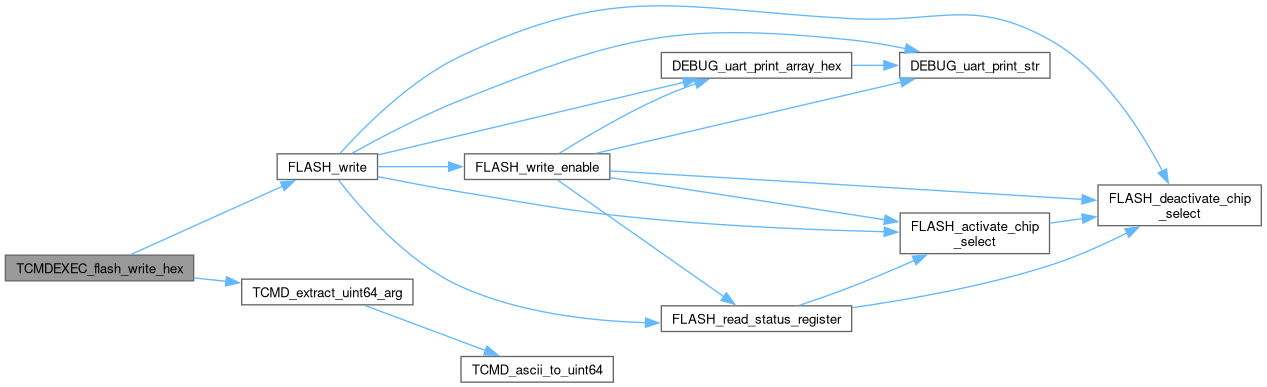
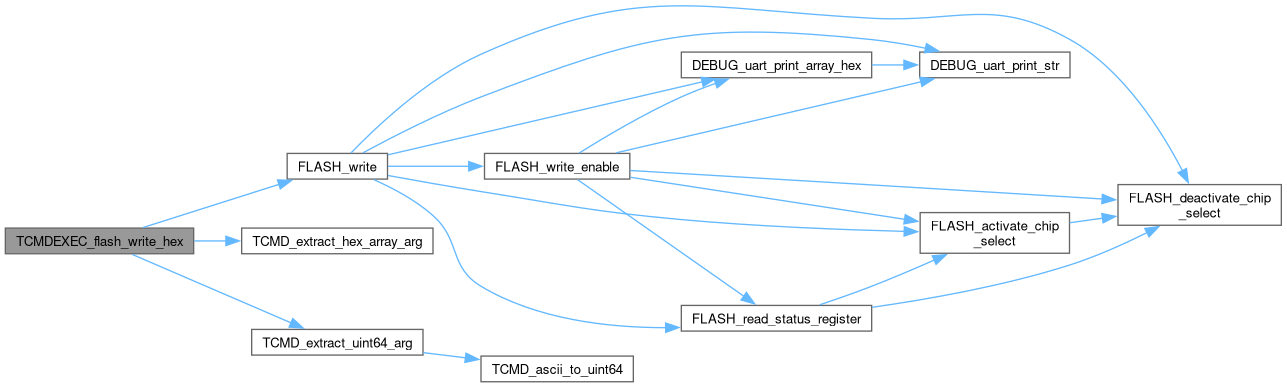
deploy: bd5ba44387774b4bcf0515f33cc101d4d5e2f277

diff --git a/flash__telecommand__defs_8c.html b/flash__telecommand__defs_8c.html
@@ -428,7 +428,7 @@ Here is the call graph for this function:</div>
   </table>
   </dd>
 </dl>
-<dl class="section return"><dt>Returns</dt><dd>0 on success, &gt;0 on error // TODO: explain better </dd></dl>
+<dl class="section return"><dt>Returns</dt><dd>0 on success, &gt;0 on error </dd></dl>
 <div class="dynheader">
 Here is the call graph for this function:</div>
 <div class="dyncontent">
@@ -499,11 +499,16 @@ Here is the call graph for this function:</div>
 <p>Telecommand: Read bytes as hex from a flash address. </p>
 <dl class="params"><dt>Parameters</dt><dd>
   <table class="params">
-    <tr><td class="paramname">args_str</td><td>Arg 0: Chip Number (CS number) as uint, Arg 1: Flash Address as uint, Arg 2: Number of bytes to read as uint </td></tr>
+    <tr><td class="paramname">args_str</td><td><ul>
+<li>Arg 0: Chip Number (CS number) as uint</li>
+<li>Arg 1: Flash Address as uint</li>
+<li>Arg 2: Number of bytes to read as uint </li>
+</ul>
+</td></tr>
   </table>
   </dd>
 </dl>
-<dl class="section return"><dt>Returns</dt><dd>0 on success, &gt;0 on error // TODO: explain better </dd></dl>
+<dl class="section return"><dt>Returns</dt><dd>0 on success, &gt;0 on error </dd></dl>
 <div class="dynheader">
 Here is the call graph for this function:</div>
 <div class="dyncontent">
@@ -558,44 +563,51 @@ Here is the call graph for this function:</div>
 <p>Telecommand: Read bytes as hex from a flash address. </p>
 <dl class="params"><dt>Parameters</dt><dd>
   <table class="params">
-    <tr><td class="paramname">args_str</td><td>Arg 0: Chip Number (CS number) as uint, Arg 1: Flash Address as uint, Arg 2: Hex string of bytes to write, with no delimiters, in all lowercase </td></tr>
+    <tr><td class="paramname">args_str</td><td><ul>
+<li>Arg 0: Chip Number (CS number) as uint</li>
+<li>Arg 1: Flash Address as uint</li>
+<li>Arg 2: Hex string of bytes to write (any case, allows space/underscore separators) </li>
+</ul>
+</td></tr>
   </table>
   </dd>
 </dl>
-<dl class="section return"><dt>Returns</dt><dd>0 on success, &gt;0 on error // TODO: explain better </dd></dl>
+<dl class="section return"><dt>Returns</dt><dd>0 on success, &gt;0 on error </dd></dl>
 <div class="dynheader">
 Here is the call graph for this function:</div>
 <div class="dyncontent">
 <div class="center"><img src="flash__telecommand__defs_8c_ad09f175c2e7126e812bfaeebcd17c172_cgraph.png" border="0" usemap="#aflash__telecommand__defs_8c_ad09f175c2e7126e812bfaeebcd17c172_cgraph" alt=""/></div>
 <map name="aflash__telecommand__defs_8c_ad09f175c2e7126e812bfaeebcd17c172_cgraph" id="aflash__telecommand__defs_8c_ad09f175c2e7126e812bfaeebcd17c172_cgraph">
-<area shape="rect" title="Telecommand: Read bytes as hex from a flash address." alt="" coords="5,255,194,281"/>
-<area shape="rect" href="flash__driver_8c.html#a60239a397fffe5773a2777533bfcbca2" title="Sends Page Program Command." alt="" coords="277,154,378,179"/>
-<area shape="poly" title=" " alt="" coords="130,252,282,184,284,189,132,257"/>
-<area shape="rect" href="telecommand__args__helpers_8c.html#aa11f06d167f7dbbd4360df4d179d0791" title="Extracts the nth comma&#45;separated argument from the input string, assuming it&#39;s a uint64." alt="" coords="242,279,413,305"/>
-<area shape="poly" title=" " alt="" coords="194,275,226,279,226,284,193,281"/>
-<area shape="rect" href="debug__uart_8c.html#a6899cfc3d3792f1457667bc3ae91160d" title=" " alt="" coords="661,52,852,78"/>
-<area shape="poly" title=" " alt="" coords="377,152,683,80,685,85,379,158"/>
-<area shape="rect" href="debug__uart_8c.html#a50bda81315799872455980023a8fbfe8" title=" " alt="" coords="900,52,1050,78"/>
-<area shape="poly" title=" " alt="" coords="351,151,400,125,460,98,566,58,652,36,740,30,852,37,906,46,905,51,851,43,740,35,652,42,567,63,462,102,403,130,353,156"/>
-<area shape="rect" href="flash__driver_8c.html#aaaeb3d0b88da2a9d8f8e4b25252f34fa" title="Activates the chip select for the given flash module number." alt="" coords="900,213,1050,254"/>
-<area shape="poly" title=" " alt="" coords="378,174,461,189,561,206,662,217,778,225,885,229,884,234,778,231,661,223,560,211,461,195,377,179"/>
-<area shape="rect" href="flash__driver_8c.html#acf8b378419ff3241ec1536d900ebcb72" title="Deactivates the chip select for all lines." alt="" coords="1098,185,1261,226"/>
-<area shape="poly" title=" " alt="" coords="338,151,388,103,422,76,460,54,515,30,563,15,608,6,650,3,739,7,852,16,909,15,955,12,999,16,1024,24,1051,38,1089,66,1121,100,1146,137,1165,170,1160,172,1142,140,1117,104,1085,70,1049,42,1022,29,998,22,955,18,909,21,852,21,739,13,650,9,608,12,565,20,517,35,462,58,425,80,391,107,342,155"/>
-<area shape="rect" href="flash__driver_8c.html#ad86ddde592dfea7dd3c6129ca311923a" title="Read Status Register and store the values in given buffer." alt="" coords="661,306,852,331"/>
-<area shape="poly" title=" " alt="" coords="341,178,389,232,423,261,462,284,507,300,554,311,646,320,646,325,553,316,505,306,460,289,420,265,385,236,337,182"/>
-<area shape="rect" href="flash__driver_8c.html#aedefd1fa550b34fc7c57465aa5c5874b" title="Sends Write Enable Command." alt="" coords="465,154,610,179"/>
-<area shape="poly" title=" " alt="" coords="378,164,449,164,449,169,378,169"/>
-<area shape="poly" title=" " alt="" coords="852,63,884,63,884,68,852,68"/>
-<area shape="poly" title=" " alt="" coords="1049,220,1082,216,1083,221,1050,226"/>
-<area shape="poly" title=" " alt="" coords="799,303,851,284,913,258,915,263,853,289,801,308"/>
-<area shape="poly" title=" " alt="" coords="852,305,948,289,1049,263,1126,231,1128,235,1051,268,949,294,853,310"/>
-<area shape="poly" title=" " alt="" coords="558,151,604,124,660,95,695,81,697,86,662,100,607,128,561,156"/>
-<area shape="poly" title=" " alt="" coords="596,151,900,80,902,85,597,156"/>
-<area shape="poly" title=" " alt="" coords="611,175,885,217,885,222,610,180"/>
-<area shape="poly" title=" " alt="" coords="610,168,852,183,1082,197,1082,202,852,188,610,174"/>
-<area shape="poly" title=" " alt="" coords="559,178,726,295,722,299,556,182"/>
-<area shape="rect" href="telecommand__args__helpers_8c.html#aeeb7af1211280043fdbd8392dbd3c283" title="Extracts the longest substring of integer characters, starting from the beginning of the string,..." alt="" coords="461,356,613,382"/>
-<area shape="poly" title=" " alt="" coords="366,303,487,348,485,353,364,308"/>
+<area shape="rect" title="Telecommand: Read bytes as hex from a flash address." alt="" coords="5,228,194,254"/>
+<area shape="rect" href="flash__driver_8c.html#a60239a397fffe5773a2777533bfcbca2" title="Sends Page Program Command." alt="" coords="287,153,388,179"/>
+<area shape="poly" title=" " alt="" coords="142,225,279,182,280,187,144,230"/>
+<area shape="rect" href="telecommand__args__helpers_8c.html#a3f4c71ad48b16b79e4bb91ffb13111d7" title="Extracts the nth comma&#45;separated argument from the input string, assuming it&#39;s a hex string." alt="" coords="242,228,433,254"/>
+<area shape="poly" title=" " alt="" coords="194,238,226,238,226,244,194,244"/>
+<area shape="rect" href="telecommand__args__helpers_8c.html#aa11f06d167f7dbbd4360df4d179d0791" title="Extracts the nth comma&#45;separated argument from the input string, assuming it&#39;s a uint64." alt="" coords="252,329,423,355"/>
+<area shape="poly" title=" " alt="" coords="133,252,292,321,290,325,131,257"/>
+<area shape="rect" href="debug__uart_8c.html#a6899cfc3d3792f1457667bc3ae91160d" title=" " alt="" coords="681,52,872,78"/>
+<area shape="poly" title=" " alt="" coords="387,152,702,79,703,84,388,157"/>
+<area shape="rect" href="debug__uart_8c.html#a50bda81315799872455980023a8fbfe8" title=" " alt="" coords="920,52,1070,78"/>
+<area shape="poly" title=" " alt="" coords="362,151,415,123,480,94,586,56,672,35,760,29,872,37,926,46,925,51,871,42,760,35,673,41,587,61,482,99,417,128,364,155"/>
+<area shape="rect" href="flash__driver_8c.html#aaaeb3d0b88da2a9d8f8e4b25252f34fa" title="Activates the chip select for the given flash module number." alt="" coords="920,213,1070,253"/>
+<area shape="poly" title=" " alt="" coords="388,173,481,189,581,205,682,217,798,225,905,229,904,234,798,230,681,222,581,210,481,194,388,178"/>
+<area shape="rect" href="flash__driver_8c.html#acf8b378419ff3241ec1536d900ebcb72" title="Deactivates the chip select for all lines." alt="" coords="1118,185,1281,225"/>
+<area shape="poly" title=" " alt="" coords="349,151,402,102,439,74,480,52,535,29,584,15,628,6,671,3,760,7,872,16,929,15,975,12,1019,16,1044,24,1071,37,1109,65,1141,100,1166,136,1185,169,1180,172,1162,139,1137,103,1105,69,1069,42,1042,29,1018,21,975,17,929,20,872,21,759,13,671,9,629,12,585,20,537,34,482,57,442,79,406,106,353,155"/>
+<area shape="rect" href="flash__driver_8c.html#ad86ddde592dfea7dd3c6129ca311923a" title="Read Status Register and store the values in given buffer." alt="" coords="681,305,872,331"/>
+<area shape="poly" title=" " alt="" coords="375,177,405,193,435,214,450,233,458,252,466,269,482,284,526,304,573,317,620,323,666,325,666,330,620,329,572,322,524,309,480,288,462,272,453,254,446,236,431,218,403,197,373,182"/>
+<area shape="rect" href="flash__driver_8c.html#aedefd1fa550b34fc7c57465aa5c5874b" title="Sends Write Enable Command." alt="" coords="485,153,630,179"/>
+<area shape="poly" title=" " alt="" coords="388,164,469,164,469,169,388,169"/>
+<area shape="poly" title=" " alt="" coords="872,62,904,62,904,68,872,68"/>
+<area shape="poly" title=" " alt="" coords="1069,220,1102,216,1103,221,1070,225"/>
+<area shape="poly" title=" " alt="" coords="819,302,871,284,933,258,935,262,873,289,821,307"/>
+<area shape="poly" title=" " alt="" coords="872,305,968,288,1069,262,1146,230,1148,235,1071,267,969,293,873,310"/>
+<area shape="poly" title=" " alt="" coords="578,151,624,123,680,94,715,81,717,86,682,99,627,128,581,155"/>
+<area shape="poly" title=" " alt="" coords="616,150,920,79,922,84,617,155"/>
+<area shape="poly" title=" " alt="" coords="631,175,905,217,905,222,630,180"/>
+<area shape="poly" title=" " alt="" coords="630,168,872,182,1102,196,1102,202,872,188,630,173"/>
+<area shape="poly" title=" " alt="" coords="579,178,746,294,742,299,576,182"/>
+<area shape="rect" href="telecommand__args__helpers_8c.html#aeeb7af1211280043fdbd8392dbd3c283" title="Extracts the longest substring of integer characters, starting from the beginning of the string,..." alt="" coords="481,356,633,382"/>
+<area shape="poly" title=" " alt="" coords="424,350,466,355,465,360,423,355"/>
 </map>
 </div>
 

diff --git a/flash__telecommand__defs_8h.html b/flash__telecommand__defs_8h.html
@@ -402,7 +402,7 @@ Here is the call graph for this function:</div>
   </table>
   </dd>
 </dl>
-<dl class="section return"><dt>Returns</dt><dd>0 on success, &gt;0 on error // TODO: explain better </dd></dl>
+<dl class="section return"><dt>Returns</dt><dd>0 on success, &gt;0 on error </dd></dl>
 <div class="dynheader">
 Here is the call graph for this function:</div>
 <div class="dyncontent">
@@ -473,11 +473,16 @@ Here is the call graph for this function:</div>
 <p>Telecommand: Read bytes as hex from a flash address. </p>
 <dl class="params"><dt>Parameters</dt><dd>
   <table class="params">
-    <tr><td class="paramname">args_str</td><td>Arg 0: Chip Number (CS number) as uint, Arg 1: Flash Address as uint, Arg 2: Number of bytes to read as uint </td></tr>
+    <tr><td class="paramname">args_str</td><td><ul>
+<li>Arg 0: Chip Number (CS number) as uint</li>
+<li>Arg 1: Flash Address as uint</li>
+<li>Arg 2: Number of bytes to read as uint </li>
+</ul>
+</td></tr>
   </table>
   </dd>
 </dl>
-<dl class="section return"><dt>Returns</dt><dd>0 on success, &gt;0 on error // TODO: explain better </dd></dl>
+<dl class="section return"><dt>Returns</dt><dd>0 on success, &gt;0 on error </dd></dl>
 <div class="dynheader">
 Here is the call graph for this function:</div>
 <div class="dyncontent">
@@ -532,44 +537,51 @@ Here is the call graph for this function:</div>
 <p>Telecommand: Read bytes as hex from a flash address. </p>
 <dl class="params"><dt>Parameters</dt><dd>
   <table class="params">
-    <tr><td class="paramname">args_str</td><td>Arg 0: Chip Number (CS number) as uint, Arg 1: Flash Address as uint, Arg 2: Hex string of bytes to write, with no delimiters, in all lowercase </td></tr>
+    <tr><td class="paramname">args_str</td><td><ul>
+<li>Arg 0: Chip Number (CS number) as uint</li>
+<li>Arg 1: Flash Address as uint</li>
+<li>Arg 2: Hex string of bytes to write (any case, allows space/underscore separators) </li>
+</ul>
+</td></tr>
   </table>
   </dd>
 </dl>
-<dl class="section return"><dt>Returns</dt><dd>0 on success, &gt;0 on error // TODO: explain better </dd></dl>
+<dl class="section return"><dt>Returns</dt><dd>0 on success, &gt;0 on error </dd></dl>
 <div class="dynheader">
 Here is the call graph for this function:</div>
 <div class="dyncontent">
 <div class="center"><img src="flash__telecommand__defs_8h_ad09f175c2e7126e812bfaeebcd17c172_cgraph.png" border="0" usemap="#aflash__telecommand__defs_8h_ad09f175c2e7126e812bfaeebcd17c172_cgraph" alt=""/></div>
 <map name="aflash__telecommand__defs_8h_ad09f175c2e7126e812bfaeebcd17c172_cgraph" id="aflash__telecommand__defs_8h_ad09f175c2e7126e812bfaeebcd17c172_cgraph">
-<area shape="rect" title="Telecommand: Read bytes as hex from a flash address." alt="" coords="5,255,194,281"/>
-<area shape="rect" href="flash__driver_8c.html#a60239a397fffe5773a2777533bfcbca2" title="Sends Page Program Command." alt="" coords="277,154,378,179"/>
-<area shape="poly" title=" " alt="" coords="130,252,282,184,284,189,132,257"/>
-<area shape="rect" href="telecommand__args__helpers_8c.html#aa11f06d167f7dbbd4360df4d179d0791" title="Extracts the nth comma&#45;separated argument from the input string, assuming it&#39;s a uint64." alt="" coords="242,279,413,305"/>
-<area shape="poly" title=" " alt="" coords="194,275,226,279,226,284,193,281"/>
-<area shape="rect" href="debug__uart_8c.html#a6899cfc3d3792f1457667bc3ae91160d" title=" " alt="" coords="661,52,852,78"/>
-<area shape="poly" title=" " alt="" coords="377,152,683,80,685,85,379,158"/>
-<area shape="rect" href="debug__uart_8c.html#a50bda81315799872455980023a8fbfe8" title=" " alt="" coords="900,52,1050,78"/>
-<area shape="poly" title=" " alt="" coords="351,151,400,125,460,98,566,58,652,36,740,30,852,37,906,46,905,51,851,43,740,35,652,42,567,63,462,102,403,130,353,156"/>
-<area shape="rect" href="flash__driver_8c.html#aaaeb3d0b88da2a9d8f8e4b25252f34fa" title="Activates the chip select for the given flash module number." alt="" coords="900,213,1050,254"/>
-<area shape="poly" title=" " alt="" coords="378,174,461,189,561,206,662,217,778,225,885,229,884,234,778,231,661,223,560,211,461,195,377,179"/>
-<area shape="rect" href="flash__driver_8c.html#acf8b378419ff3241ec1536d900ebcb72" title="Deactivates the chip select for all lines." alt="" coords="1098,185,1261,226"/>
-<area shape="poly" title=" " alt="" coords="338,151,388,103,422,76,460,54,515,30,563,15,608,6,650,3,739,7,852,16,909,15,955,12,999,16,1024,24,1051,38,1089,66,1121,100,1146,137,1165,170,1160,172,1142,140,1117,104,1085,70,1049,42,1022,29,998,22,955,18,909,21,852,21,739,13,650,9,608,12,565,20,517,35,462,58,425,80,391,107,342,155"/>
-<area shape="rect" href="flash__driver_8c.html#ad86ddde592dfea7dd3c6129ca311923a" title="Read Status Register and store the values in given buffer." alt="" coords="661,306,852,331"/>
-<area shape="poly" title=" " alt="" coords="341,178,389,232,423,261,462,284,507,300,554,311,646,320,646,325,553,316,505,306,460,289,420,265,385,236,337,182"/>
-<area shape="rect" href="flash__driver_8c.html#aedefd1fa550b34fc7c57465aa5c5874b" title="Sends Write Enable Command." alt="" coords="465,154,610,179"/>
-<area shape="poly" title=" " alt="" coords="378,164,449,164,449,169,378,169"/>
-<area shape="poly" title=" " alt="" coords="852,63,884,63,884,68,852,68"/>
-<area shape="poly" title=" " alt="" coords="1049,220,1082,216,1083,221,1050,226"/>
-<area shape="poly" title=" " alt="" coords="799,303,851,284,913,258,915,263,853,289,801,308"/>
-<area shape="poly" title=" " alt="" coords="852,305,948,289,1049,263,1126,231,1128,235,1051,268,949,294,853,310"/>
-<area shape="poly" title=" " alt="" coords="558,151,604,124,660,95,695,81,697,86,662,100,607,128,561,156"/>
-<area shape="poly" title=" " alt="" coords="596,151,900,80,902,85,597,156"/>
-<area shape="poly" title=" " alt="" coords="611,175,885,217,885,222,610,180"/>
-<area shape="poly" title=" " alt="" coords="610,168,852,183,1082,197,1082,202,852,188,610,174"/>
-<area shape="poly" title=" " alt="" coords="559,178,726,295,722,299,556,182"/>
-<area shape="rect" href="telecommand__args__helpers_8c.html#aeeb7af1211280043fdbd8392dbd3c283" title="Extracts the longest substring of integer characters, starting from the beginning of the string,..." alt="" coords="461,356,613,382"/>
-<area shape="poly" title=" " alt="" coords="366,303,487,348,485,353,364,308"/>
+<area shape="rect" title="Telecommand: Read bytes as hex from a flash address." alt="" coords="5,228,194,254"/>
+<area shape="rect" href="flash__driver_8c.html#a60239a397fffe5773a2777533bfcbca2" title="Sends Page Program Command." alt="" coords="287,153,388,179"/>
+<area shape="poly" title=" " alt="" coords="142,225,279,182,280,187,144,230"/>
+<area shape="rect" href="telecommand__args__helpers_8c.html#a3f4c71ad48b16b79e4bb91ffb13111d7" title="Extracts the nth comma&#45;separated argument from the input string, assuming it&#39;s a hex string." alt="" coords="242,228,433,254"/>
+<area shape="poly" title=" " alt="" coords="194,238,226,238,226,244,194,244"/>
+<area shape="rect" href="telecommand__args__helpers_8c.html#aa11f06d167f7dbbd4360df4d179d0791" title="Extracts the nth comma&#45;separated argument from the input string, assuming it&#39;s a uint64." alt="" coords="252,329,423,355"/>
+<area shape="poly" title=" " alt="" coords="133,252,292,321,290,325,131,257"/>
+<area shape="rect" href="debug__uart_8c.html#a6899cfc3d3792f1457667bc3ae91160d" title=" " alt="" coords="681,52,872,78"/>
+<area shape="poly" title=" " alt="" coords="387,152,702,79,703,84,388,157"/>
+<area shape="rect" href="debug__uart_8c.html#a50bda81315799872455980023a8fbfe8" title=" " alt="" coords="920,52,1070,78"/>
+<area shape="poly" title=" " alt="" coords="362,151,415,123,480,94,586,56,672,35,760,29,872,37,926,46,925,51,871,42,760,35,673,41,587,61,482,99,417,128,364,155"/>
+<area shape="rect" href="flash__driver_8c.html#aaaeb3d0b88da2a9d8f8e4b25252f34fa" title="Activates the chip select for the given flash module number." alt="" coords="920,213,1070,253"/>
+<area shape="poly" title=" " alt="" coords="388,173,481,189,581,205,682,217,798,225,905,229,904,234,798,230,681,222,581,210,481,194,388,178"/>
+<area shape="rect" href="flash__driver_8c.html#acf8b378419ff3241ec1536d900ebcb72" title="Deactivates the chip select for all lines." alt="" coords="1118,185,1281,225"/>
+<area shape="poly" title=" " alt="" coords="349,151,402,102,439,74,480,52,535,29,584,15,628,6,671,3,760,7,872,16,929,15,975,12,1019,16,1044,24,1071,37,1109,65,1141,100,1166,136,1185,169,1180,172,1162,139,1137,103,1105,69,1069,42,1042,29,1018,21,975,17,929,20,872,21,759,13,671,9,629,12,585,20,537,34,482,57,442,79,406,106,353,155"/>
+<area shape="rect" href="flash__driver_8c.html#ad86ddde592dfea7dd3c6129ca311923a" title="Read Status Register and store the values in given buffer." alt="" coords="681,305,872,331"/>
+<area shape="poly" title=" " alt="" coords="375,177,405,193,435,214,450,233,458,252,466,269,482,284,526,304,573,317,620,323,666,325,666,330,620,329,572,322,524,309,480,288,462,272,453,254,446,236,431,218,403,197,373,182"/>
+<area shape="rect" href="flash__driver_8c.html#aedefd1fa550b34fc7c57465aa5c5874b" title="Sends Write Enable Command." alt="" coords="485,153,630,179"/>
+<area shape="poly" title=" " alt="" coords="388,164,469,164,469,169,388,169"/>
+<area shape="poly" title=" " alt="" coords="872,62,904,62,904,68,872,68"/>
+<area shape="poly" title=" " alt="" coords="1069,220,1102,216,1103,221,1070,225"/>
+<area shape="poly" title=" " alt="" coords="819,302,871,284,933,258,935,262,873,289,821,307"/>
+<area shape="poly" title=" " alt="" coords="872,305,968,288,1069,262,1146,230,1148,235,1071,267,969,293,873,310"/>
+<area shape="poly" title=" " alt="" coords="578,151,624,123,680,94,715,81,717,86,682,99,627,128,581,155"/>
+<area shape="poly" title=" " alt="" coords="616,150,920,79,922,84,617,155"/>
+<area shape="poly" title=" " alt="" coords="631,175,905,217,905,222,630,180"/>
+<area shape="poly" title=" " alt="" coords="630,168,872,182,1102,196,1102,202,872,188,630,173"/>
+<area shape="poly" title=" " alt="" coords="579,178,746,294,742,299,576,182"/>
+<area shape="rect" href="telecommand__args__helpers_8c.html#aeeb7af1211280043fdbd8392dbd3c283" title="Extracts the longest substring of integer characters, starting from the beginning of the string,..." alt="" coords="481,356,633,382"/>
+<area shape="poly" title=" " alt="" coords="424,350,466,355,465,360,423,355"/>
 </map>
 </div>
 

diff --git a/flash__telecommand__defs_8h_source.html b/flash__telecommand__defs_8h_source.html
@@ -118,11 +118,11 @@ $(function(){ initResizable(false); });
 <div class="line"><a id="l00025" name="l00025"></a><span class="lineno">   25</span>                        </div>
 <div class="line"><a id="l00026" name="l00026"></a><span class="lineno">   26</span><span class="preprocessor">#endif </span><span class="comment">/* __INCLUDE_GUARD__FLASH_TELECOMMAND_DEFS_H__ */</span><span class="preprocessor"></span></div>
 <div class="ttc" id="aflash__telecommand__defs_8h_html_a447d306bb6ec33d39ac84323de6aa88a"><div class="ttname"><a href="flash__telecommand__defs_8h.html#a447d306bb6ec33d39ac84323de6aa88a">TCMDEXEC_flash_each_is_reachable</a></div><div class="ttdeci">uint8_t TCMDEXEC_flash_each_is_reachable(const char *args_str, TCMD_TelecommandChannel_enum_t tcmd_channel, char *response_output_buf, uint16_t response_output_buf_len)</div><div class="ttdoc">Telecommand: Read bytes as hex from a flash address.</div><div class="ttdef"><b>Definition</b> flash_telecommand_defs.c:42</div></div>
-<div class="ttc" id="aflash__telecommand__defs_8h_html_aaad387e58757cce93fe46c8eb25cc822"><div class="ttname"><a href="flash__telecommand__defs_8h.html#aaad387e58757cce93fe46c8eb25cc822">TCMDEXEC_flash_read_hex</a></div><div class="ttdeci">uint8_t TCMDEXEC_flash_read_hex(const char *args_str, TCMD_TelecommandChannel_enum_t tcmd_channel, char *response_output_buf, uint16_t response_output_buf_len)</div><div class="ttdoc">Telecommand: Read bytes as hex from a flash address.</div><div class="ttdef"><b>Definition</b> flash_telecommand_defs.c:93</div></div>
+<div class="ttc" id="aflash__telecommand__defs_8h_html_aaad387e58757cce93fe46c8eb25cc822"><div class="ttname"><a href="flash__telecommand__defs_8h.html#aaad387e58757cce93fe46c8eb25cc822">TCMDEXEC_flash_read_hex</a></div><div class="ttdeci">uint8_t TCMDEXEC_flash_read_hex(const char *args_str, TCMD_TelecommandChannel_enum_t tcmd_channel, char *response_output_buf, uint16_t response_output_buf_len)</div><div class="ttdoc">Telecommand: Read bytes as hex from a flash address.</div><div class="ttdef"><b>Definition</b> flash_telecommand_defs.c:95</div></div>
 <div class="ttc" id="aflash__telecommand__defs_8h_html_abe48337a0d7cf85f21941a23ad028493"><div class="ttname"><a href="flash__telecommand__defs_8h.html#abe48337a0d7cf85f21941a23ad028493">TCMDEXEC_flash_activate_each_cs</a></div><div class="ttdeci">uint8_t TCMDEXEC_flash_activate_each_cs(const char *args_str, TCMD_TelecommandChannel_enum_t tcmd_channel, char *response_output_buf, uint16_t response_output_buf_len)</div><div class="ttdoc">Telecommand: Read bytes as hex from a flash address.</div><div class="ttdef"><b>Definition</b> flash_telecommand_defs.c:16</div></div>
-<div class="ttc" id="aflash__telecommand__defs_8h_html_abf1a62ec4474e4584deb50c95c7800c4"><div class="ttname"><a href="flash__telecommand__defs_8h.html#abf1a62ec4474e4584deb50c95c7800c4">TCMDEXEC_flash_erase</a></div><div class="ttdeci">uint8_t TCMDEXEC_flash_erase(const char *args_str, TCMD_TelecommandChannel_enum_t tcmd_channel, char *response_output_buf, uint16_t response_output_buf_len)</div><div class="ttdoc">Telecommand: Erase a sector of flash memory.</div><div class="ttdef"><b>Definition</b> flash_telecommand_defs.c:235</div></div>
-<div class="ttc" id="aflash__telecommand__defs_8h_html_ad09f175c2e7126e812bfaeebcd17c172"><div class="ttname"><a href="flash__telecommand__defs_8h.html#ad09f175c2e7126e812bfaeebcd17c172">TCMDEXEC_flash_write_hex</a></div><div class="ttdeci">uint8_t TCMDEXEC_flash_write_hex(const char *args_str, TCMD_TelecommandChannel_enum_t tcmd_channel, char *response_output_buf, uint16_t response_output_buf_len)</div><div class="ttdoc">Telecommand: Read bytes as hex from a flash address.</div><div class="ttdef"><b>Definition</b> flash_telecommand_defs.c:161</div></div>
-<div class="ttc" id="aflash__telecommand__defs_8h_html_aeb4bfdf0b416966258a378a382f529ce"><div class="ttname"><a href="flash__telecommand__defs_8h.html#aeb4bfdf0b416966258a378a382f529ce">TCMDEXEC_flash_benchmark_erase_write_read</a></div><div class="ttdeci">uint8_t TCMDEXEC_flash_benchmark_erase_write_read(const char *args_str, TCMD_TelecommandChannel_enum_t tcmd_channel, char *response_output_buf, uint16_t response_output_buf_len)</div><div class="ttdoc">Telecommand: Benchmarks the erase/write/read operations on the flash memory module.</div><div class="ttdef"><b>Definition</b> flash_telecommand_defs.c:276</div></div>
+<div class="ttc" id="aflash__telecommand__defs_8h_html_abf1a62ec4474e4584deb50c95c7800c4"><div class="ttname"><a href="flash__telecommand__defs_8h.html#abf1a62ec4474e4584deb50c95c7800c4">TCMDEXEC_flash_erase</a></div><div class="ttdeci">uint8_t TCMDEXEC_flash_erase(const char *args_str, TCMD_TelecommandChannel_enum_t tcmd_channel, char *response_output_buf, uint16_t response_output_buf_len)</div><div class="ttdoc">Telecommand: Erase a sector of flash memory.</div><div class="ttdef"><b>Definition</b> flash_telecommand_defs.c:229</div></div>
+<div class="ttc" id="aflash__telecommand__defs_8h_html_ad09f175c2e7126e812bfaeebcd17c172"><div class="ttname"><a href="flash__telecommand__defs_8h.html#ad09f175c2e7126e812bfaeebcd17c172">TCMDEXEC_flash_write_hex</a></div><div class="ttdeci">uint8_t TCMDEXEC_flash_write_hex(const char *args_str, TCMD_TelecommandChannel_enum_t tcmd_channel, char *response_output_buf, uint16_t response_output_buf_len)</div><div class="ttdoc">Telecommand: Read bytes as hex from a flash address.</div><div class="ttdef"><b>Definition</b> flash_telecommand_defs.c:165</div></div>
+<div class="ttc" id="aflash__telecommand__defs_8h_html_aeb4bfdf0b416966258a378a382f529ce"><div class="ttname"><a href="flash__telecommand__defs_8h.html#aeb4bfdf0b416966258a378a382f529ce">TCMDEXEC_flash_benchmark_erase_write_read</a></div><div class="ttdeci">uint8_t TCMDEXEC_flash_benchmark_erase_write_read(const char *args_str, TCMD_TelecommandChannel_enum_t tcmd_channel, char *response_output_buf, uint16_t response_output_buf_len)</div><div class="ttdoc">Telecommand: Benchmarks the erase/write/read operations on the flash memory module.</div><div class="ttdef"><b>Definition</b> flash_telecommand_defs.c:270</div></div>
 <div class="ttc" id="atelecommand__definitions_8h_html"><div class="ttname"><a href="telecommand__definitions_8h.html">telecommand_definitions.h</a></div></div>
 <div class="ttc" id="atelecommand__types_8h_html_ae7b2ad17e7a3bbfa03b0d463b3a86d7c"><div class="ttname"><a href="telecommand__types_8h.html#ae7b2ad17e7a3bbfa03b0d463b3a86d7c">TCMD_TelecommandChannel_enum_t</a></div><div class="ttdeci">TCMD_TelecommandChannel_enum_t</div><div class="ttdef"><b>Definition</b> telecommand_types.h:8</div></div>
 </div><!-- fragment --></div><!-- contents -->

diff --git a/telecommand__args__helpers_8c.html b/telecommand__args__helpers_8c.html
@@ -264,9 +264,11 @@ Here is the caller graph for this function:</div>
 <div class="dyncontent">
 <div class="center"><img src="telecommand__args__helpers_8c_a3f4c71ad48b16b79e4bb91ffb13111d7_icgraph.png" border="0" usemap="#atelecommand__args__helpers_8c_a3f4c71ad48b16b79e4bb91ffb13111d7_icgraph" alt=""/></div>
 <map name="atelecommand__args__helpers_8c_a3f4c71ad48b16b79e4bb91ffb13111d7_icgraph" id="atelecommand__args__helpers_8c_a3f4c71ad48b16b79e4bb91ffb13111d7_icgraph">
-<area shape="rect" title="Extracts the nth comma&#45;separated argument from the input string, assuming it&#39;s a hex string." alt="" coords="246,13,437,39"/>
-<area shape="rect" href="test__telecommand__arg__helpers_8c.html#a53ee6bd966b62fa17929ba99f948ed42" title=" " alt="" coords="5,5,198,46"/>
-<area shape="poly" title=" " alt="" coords="230,28,198,28,198,23,230,23"/>
+<area shape="rect" title="Extracts the nth comma&#45;separated argument from the input string, assuming it&#39;s a hex string." alt="" coords="246,35,437,60"/>
+<area shape="rect" href="flash__telecommand__defs_8c.html#ad09f175c2e7126e812bfaeebcd17c172" title="Telecommand: Read bytes as hex from a flash address." alt="" coords="7,5,196,31"/>
+<area shape="poly" title=" " alt="" coords="230,37,196,32,197,27,231,31"/>
+<area shape="rect" href="test__telecommand__arg__helpers_8c.html#a53ee6bd966b62fa17929ba99f948ed42" title=" " alt="" coords="5,55,198,96"/>
+<area shape="poly" title=" " alt="" coords="231,63,199,67,198,62,230,58"/>
 </map>
 </div>
 

diff --git a/telecommand__args__helpers_8h.html b/telecommand__args__helpers_8h.html
@@ -268,9 +268,11 @@ Here is the caller graph for this function:</div>
 <div class="dyncontent">
 <div class="center"><img src="telecommand__args__helpers_8h_a3f4c71ad48b16b79e4bb91ffb13111d7_icgraph.png" border="0" usemap="#atelecommand__args__helpers_8h_a3f4c71ad48b16b79e4bb91ffb13111d7_icgraph" alt=""/></div>
 <map name="atelecommand__args__helpers_8h_a3f4c71ad48b16b79e4bb91ffb13111d7_icgraph" id="atelecommand__args__helpers_8h_a3f4c71ad48b16b79e4bb91ffb13111d7_icgraph">
-<area shape="rect" title="Extracts the nth comma&#45;separated argument from the input string, assuming it&#39;s a hex string." alt="" coords="246,13,437,39"/>
-<area shape="rect" href="test__telecommand__arg__helpers_8c.html#a53ee6bd966b62fa17929ba99f948ed42" title=" " alt="" coords="5,5,198,46"/>
-<area shape="poly" title=" " alt="" coords="230,28,198,28,198,23,230,23"/>
+<area shape="rect" title="Extracts the nth comma&#45;separated argument from the input string, assuming it&#39;s a hex string." alt="" coords="246,35,437,60"/>
+<area shape="rect" href="flash__telecommand__defs_8c.html#ad09f175c2e7126e812bfaeebcd17c172" title="Telecommand: Read bytes as hex from a flash address." alt="" coords="7,5,196,31"/>
+<area shape="poly" title=" " alt="" coords="230,37,196,32,197,27,231,31"/>
+<area shape="rect" href="test__telecommand__arg__helpers_8c.html#a53ee6bd966b62fa17929ba99f948ed42" title=" " alt="" coords="5,55,198,96"/>
+<area shape="poly" title=" " alt="" coords="231,63,199,67,198,62,230,58"/>
 </map>
 </div>
 
